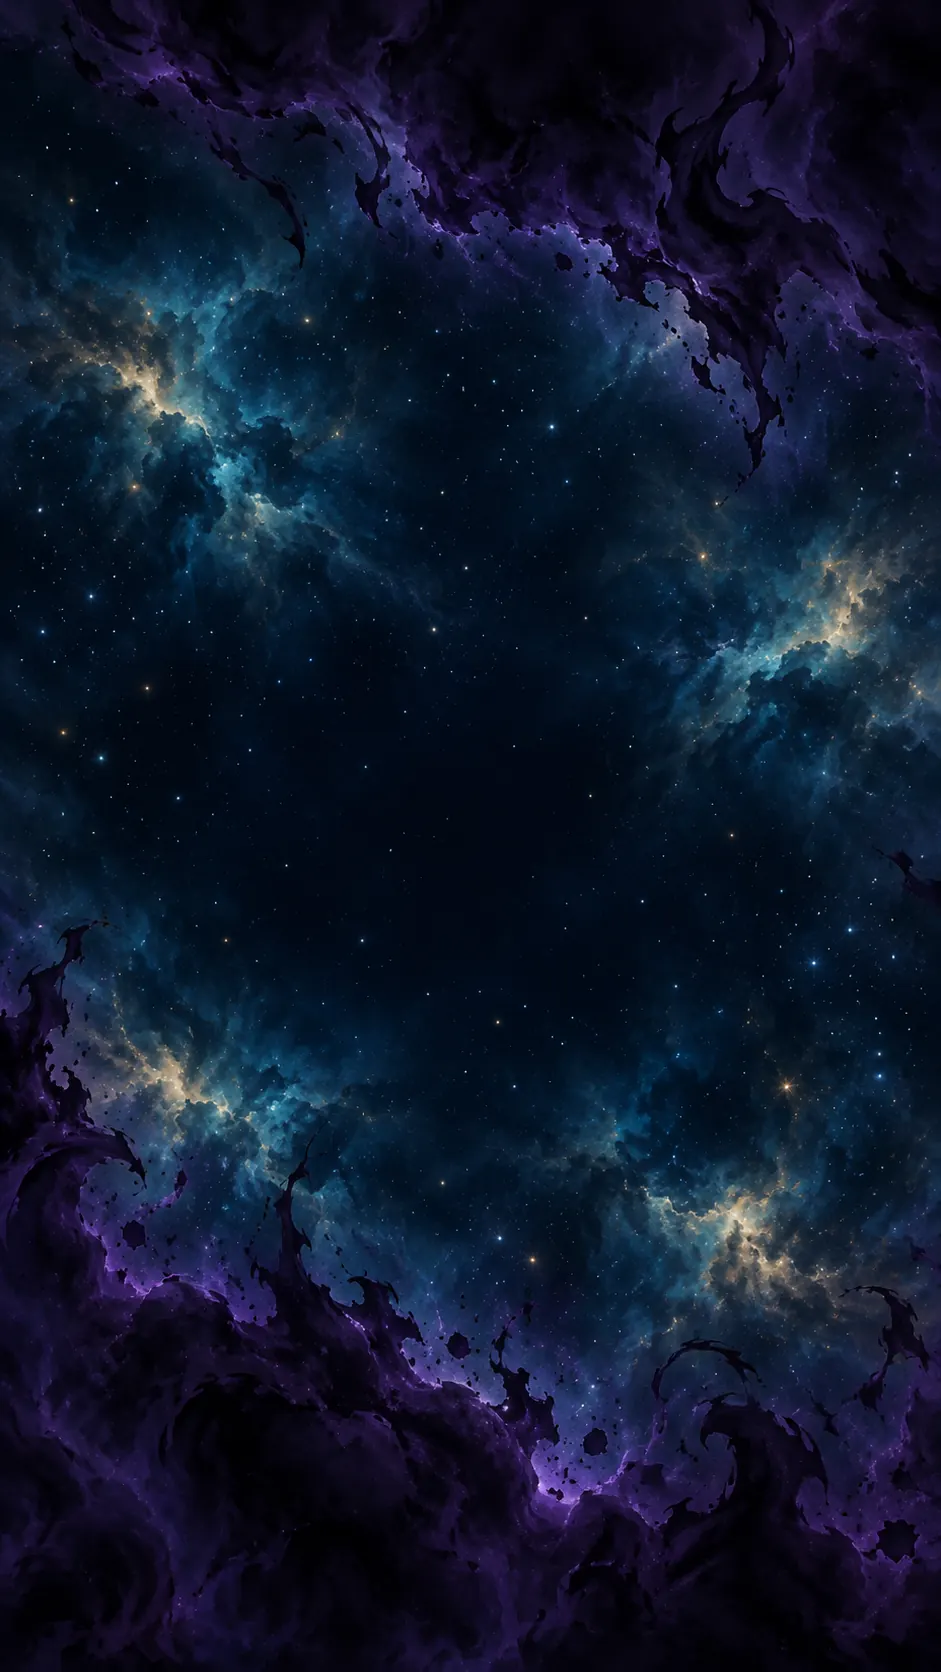
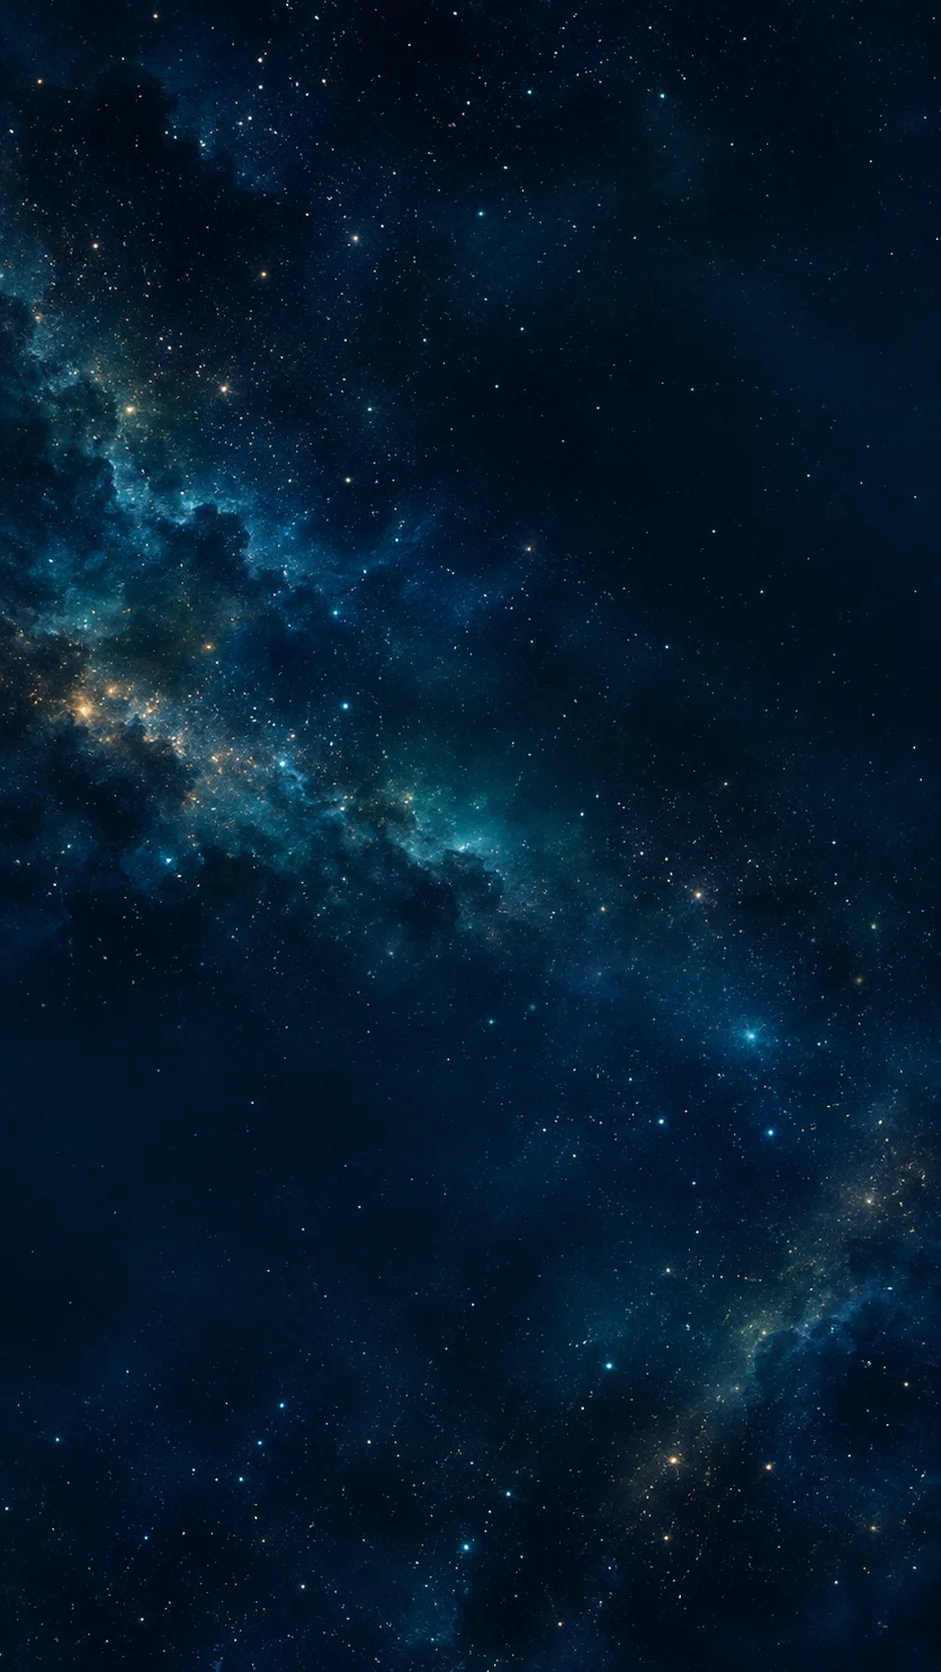
к

diff --git a/map.js b/map.js
@@ -302,18 +302,18 @@
     const MODE = document.getElementById('gmode'), HINT = MAPV.querySelector('.mhint .ht'), HINT0 = HINT.textContent, HP = MAPV.querySelector('.mhint'), HEAD = MAPV.querySelector('.mhead'),
           HT = matchMedia('(hover:none) and (pointer:coarse)').matches ? 'тяни — вращай, щипок — масштаб' : 'тяни — вращать, колесо — масштаб';
     HINT.textContent = HT;
-    // ===== фон-паралакс: 3 слоя (далёкая туманность с Бездной, звёзды, ближний туман), едут с разной скоростью от поворота глобуса и мыши =====
-    const PXF = () => matchMedia('(orientation:portrait)').matches ? ['sp_far_m.webp?v=1', 'sp_mid_m.webp?v=1', 'sp_near_m.webp?v=1'] : ['sp_far.webp?v=1', 'sp_mid.webp?v=1', 'sp_near.webp?v=1'];
-    const PXD = [.25, .6, 1.2], PXI = ['-3%', '-5%', '-8%'], PXR = matchMedia('(prefers-reduced-motion:reduce)').matches;
-    const PXE = ['far', 'mid', 'near'].map((n, i) => { const e = document.createElement('div'); e.className = 'gpx ' + n; e.setAttribute('aria-hidden', 'true'); e.style.inset = PXI[i]; return e; });
-    BG.after(PXE[0], PXE[1]); CV.after(PXE[2]);
+    // ===== фон-паралакс: 4 слоя (далёкая туманность, золотые потоки, звёзды, астероиды), все за глобусом, едут с разной скоростью от поворота глобуса и мыши =====
+    const PXF = () => matchMedia('(orientation:portrait)').matches ? ['sp_far_m.webp?v=2', 'sp_neb_m.webp?v=2', 'sp_mid_m.webp?v=2', 'sp_ast_m.webp?v=2'] : ['sp_far.webp?v=2', 'sp_neb.webp?v=2', 'sp_mid.webp?v=2', 'sp_ast.webp?v=2'];
+    const PXD = [.25, .45, .6, 1.1], PXI = ['-3%', '-4%', '-5%', '-8%'], PXR = matchMedia('(prefers-reduced-motion:reduce)').matches;
+    const PXE = ['far', 'neb', 'mid', 'ast'].map((n, i) => { const e = document.createElement('div'); e.className = 'gpx ' + n; e.setAttribute('aria-hidden', 'true'); e.style.inset = PXI[i]; return e; });
+    BG.after(PXE[0], PXE[1], PXE[2], PXE[3]);
     let pxOk = false, pmx = 0, pmy = 0, pcx = 0, pcy = 0;
     function pxReady(cb){ const L = PXF(); let n = 0, fired = false; const fin = () => { if (fired) return; fired = true; pxOk = true; L.forEach((u, i) => PXE[i].style.backgroundImage = 'url(' + u + ')'); cb(); };
       const t = setTimeout(() => { if (!fired){ fired = true; cb(); } }, 7000);
       L.forEach(u => { const im = new Image(); im.onload = im.onerror = () => { if (++n === L.length){ clearTimeout(t); fin(); } }; im.src = u; }); }
     function pxMove(dt){ if (!pxOk || PXR) return; const k = Math.min(1, dt * 3), A = MOB ? 22 : 38;
       pcx += ((Math.sin(lon * .5) * A + pmx * 22) - pcx) * k; pcy += ((lat * 28 + pmy * 14) - pcy) * k;
-      for (let i = 0; i < 3; i++) PXE[i].style.transform = 'translate3d(' + (-pcx * PXD[i]).toFixed(1) + 'px,' + (-pcy * PXD[i]).toFixed(1) + 'px,0)'; }
+      for (let i = 0; i < 4; i++) PXE[i].style.transform = 'translate3d(' + (-pcx * PXD[i]).toFixed(1) + 'px,' + (-pcy * PXD[i]).toFixed(1) + 'px,0)'; }
     GV.addEventListener('pointermove', e => { if (e.pointerType !== 'mouse') return; const r = GV.getBoundingClientRect(); pmx = (e.clientX - r.left) / r.width * 2 - 1; pmy = (e.clientY - r.top) / r.height * 2 - 1; });
     const REG = [['mond','Мондштадт','#6FE3C1'],['liyue','Ли Юэ','#F5C84C'],['fontaine','Фонтейн','#4FD3F7'],['sumeru','Сумеру','#9BDB4E'],
                  ['nodkrai','Нод-Край','#B9B2FF'],['natlan','Натлан','#FF7B5C'],['snezh','Снежная','#A8EEF5'],['inazuma','Инадзума','#C58CFF']];

diff --git a/map.html b/map.html
@@ -54,6 +54,6 @@
 <script src="data.js?v=129"></script>
 <script src="news.js?v=19"></script>
 <script src="app.js?v=52"></script>
-<script src="map.js?v=14"></script>
+<script src="map.js?v=15"></script>
 <script src="feedback.js?v=1"></script>
 </body></html>
